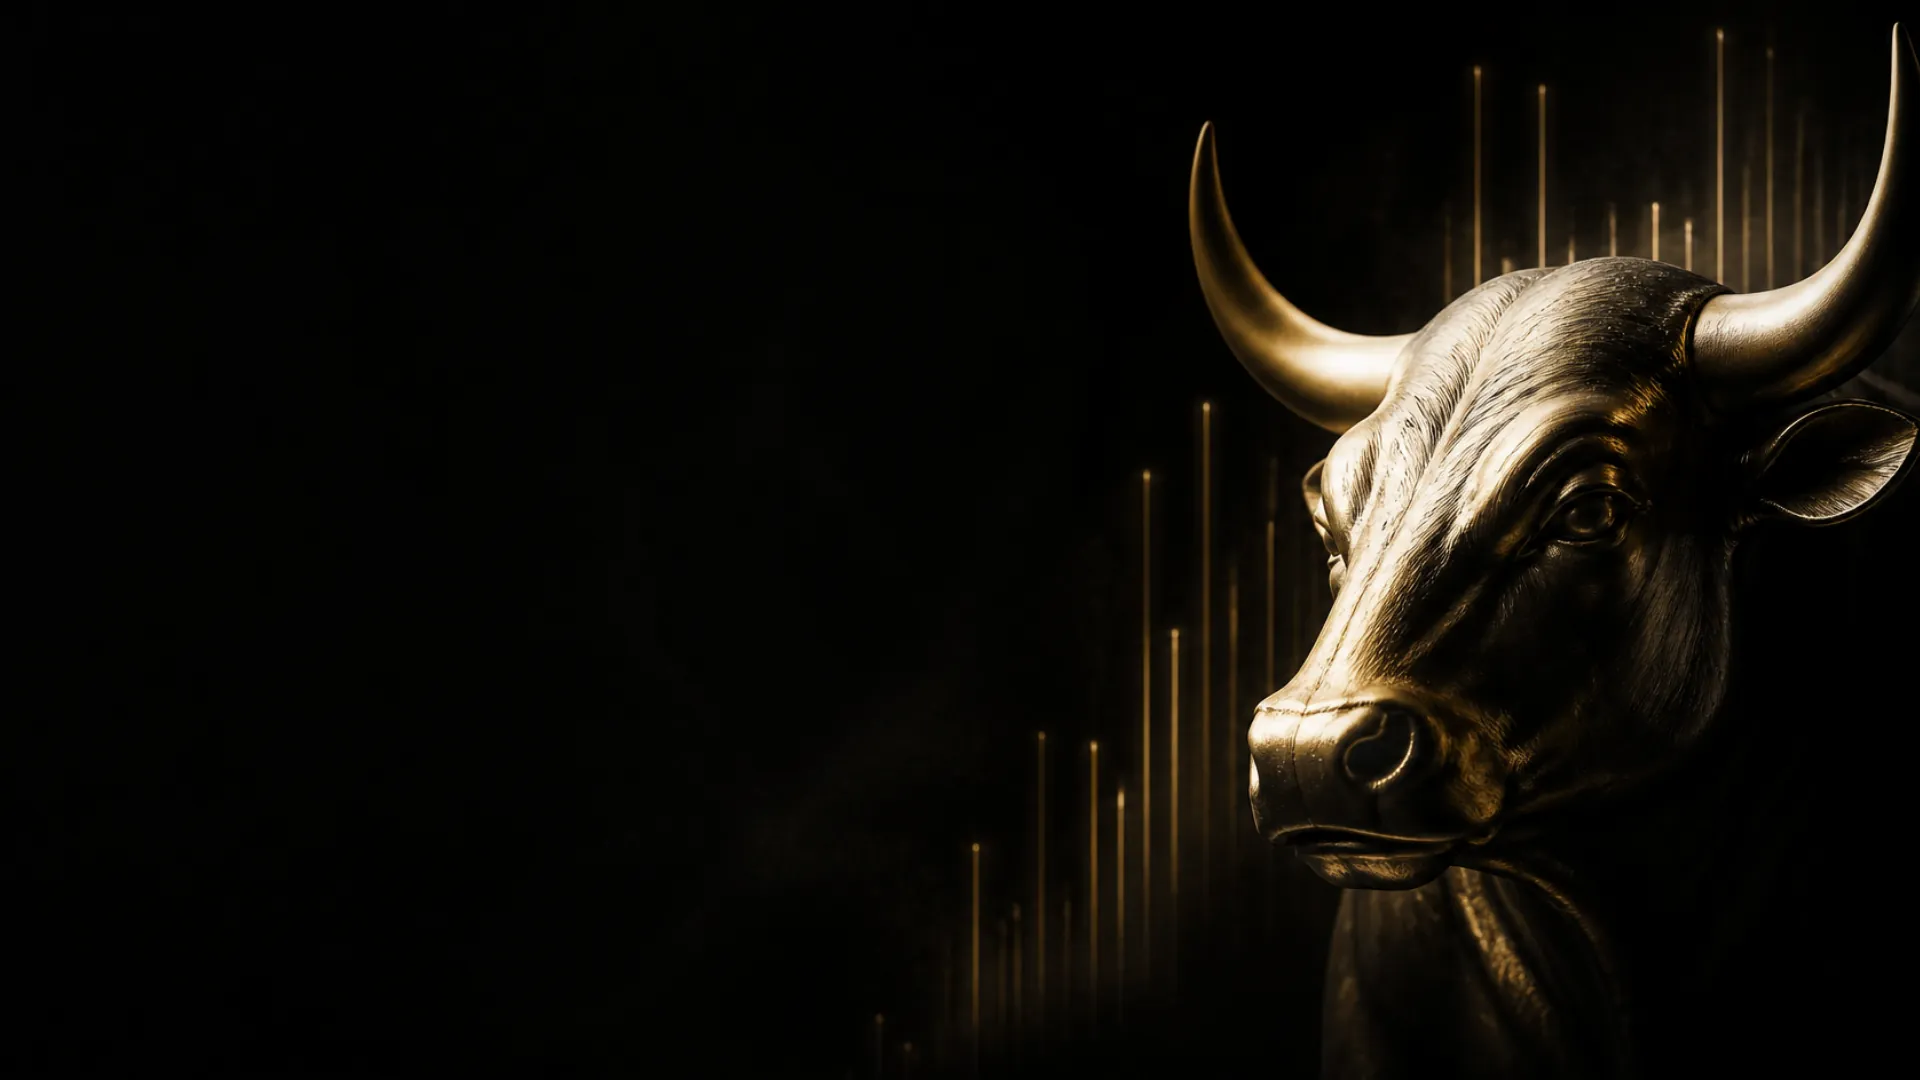
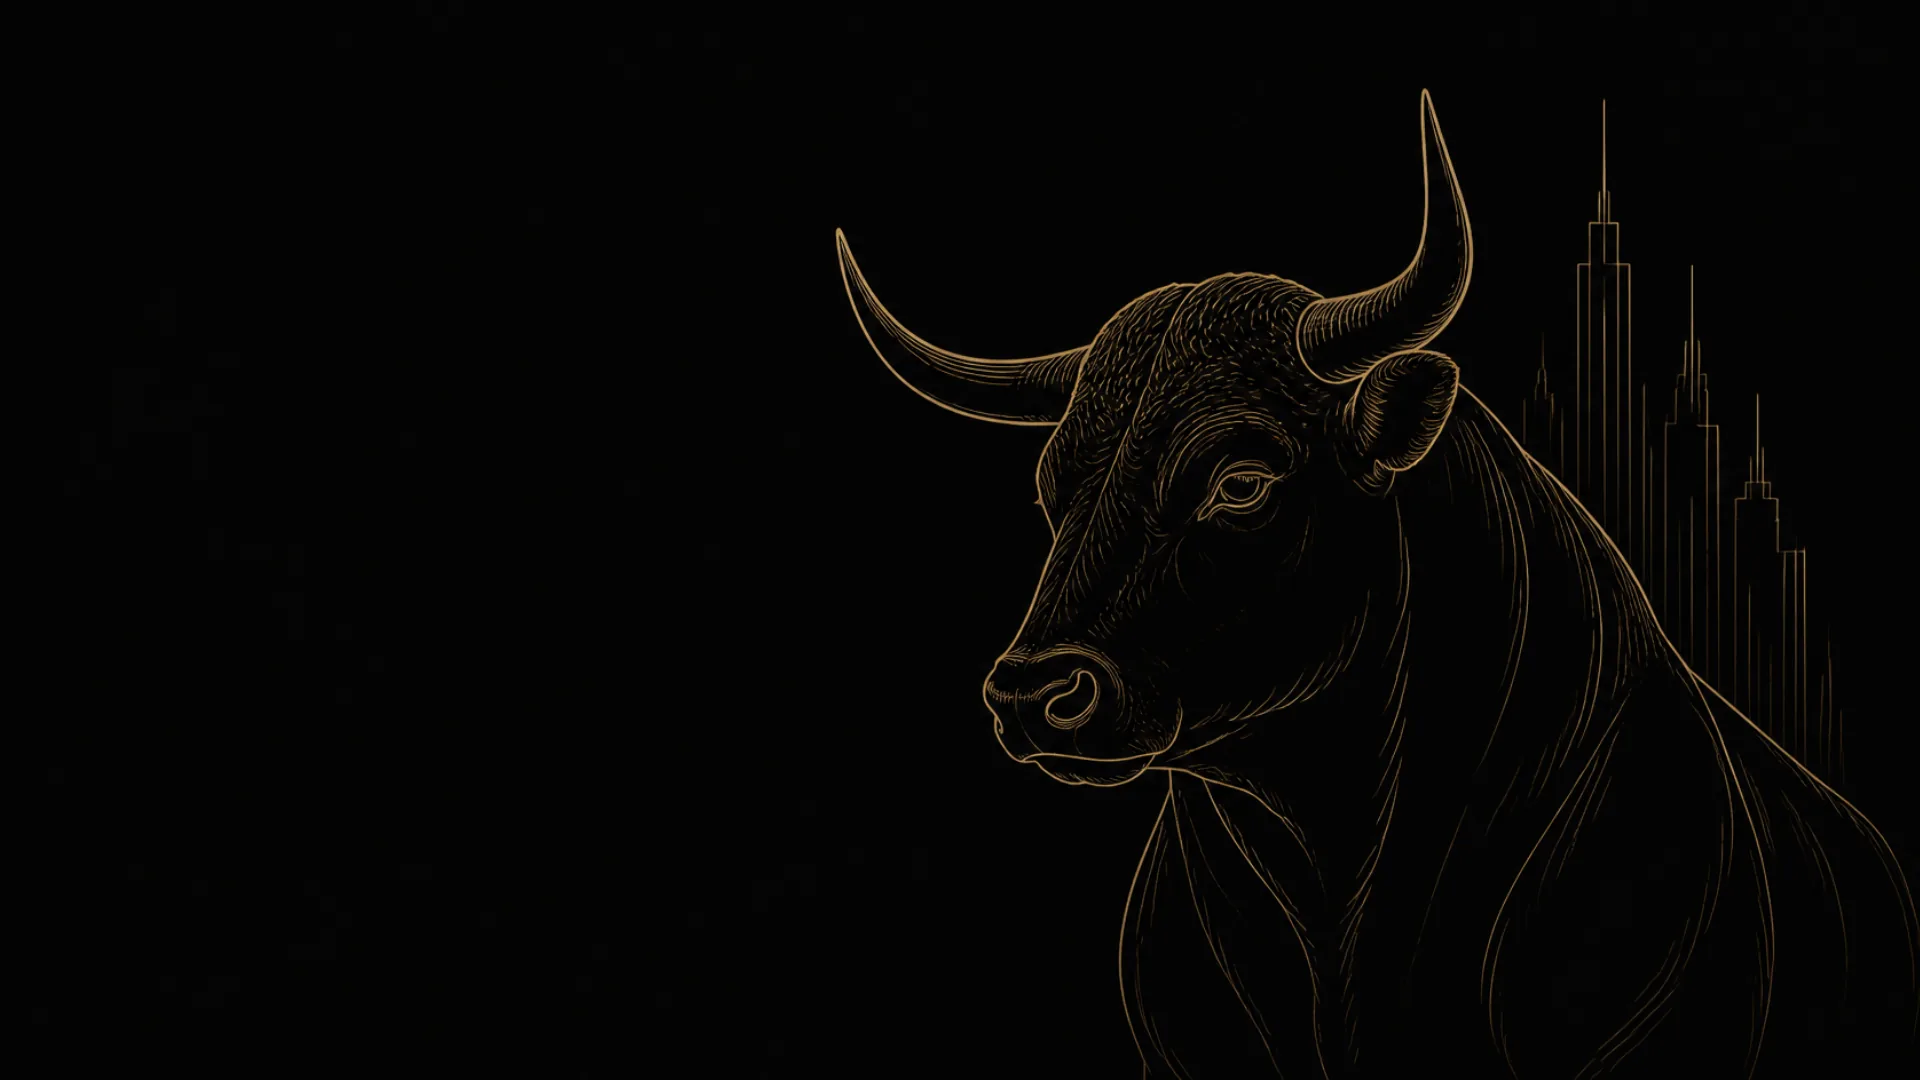
Replace the photoreal bull with a minimalist sketch
The hero and LinkedIn banner now use a fine-line gold sketch of a bull
with a thin skyline. The hero image sits on the right at its natural
proportions, and the rosette and market line are quieter so the
linework reads cleanly.

Changed region(s): [[0.4375, 0.0306, 1.0, 0.9472], [0.9062, 0.7028, 0.9688, 0.7639], [0.9375, 0.6417, 0.9688, 0.6722]]

diff --git a/css/main.css b/css/main.css
@@ -206,13 +206,14 @@ a:hover { color: var(--text); }
 
 /* ---------- Hero ---------- */
 .hero { position: relative; z-index: 2; min-height: calc(100svh - 6.85rem); display: flex; align-items: center; overflow: hidden; padding-block: var(--space-5); }
-.hero-media { position: absolute; inset: 0; z-index: -2; }
-.hero-media img { width: 100%; height: 100%; object-fit: cover; object-position: 72% 40%; }
+/* The sketch bull sits on the right at its natural proportions; the headline keeps the left. */
+.hero-media { position: absolute; inset: 0 0 0 auto; width: min(78%, 1250px); z-index: -2; }
+.hero-media img { width: 100%; height: 100%; object-fit: cover; object-position: 85% 50%; }
 .hero-media::after {
   content: ""; position: absolute; inset: 0;
   background:
-    linear-gradient(90deg, var(--bg) 18%, rgb(11 11 12 / 0.75) 48%, rgb(11 11 12 / 0.15) 75%, rgb(11 11 12 / 0.35)),
-    linear-gradient(0deg, var(--bg) 0%, transparent 30%);
+    linear-gradient(90deg, var(--bg) 0%, rgb(11 11 12 / 0.6) 22%, transparent 45%),
+    linear-gradient(0deg, var(--bg) 0%, transparent 22%);
 }
 .hero .container { position: relative; }
 .hero h1 { font-size: clamp(3.4rem, 1.4rem + 9vw, 10.5rem); line-height: 0.92; letter-spacing: -0.03em; margin-bottom: var(--space-4); }
@@ -224,15 +225,16 @@ a:hover { color: var(--text); }
 .hero-meta .container { display: flex; justify-content: space-between; gap: var(--space-2); flex-wrap: wrap; color: var(--muted); }
 .hero-meta ol { display: flex; gap: var(--space-4); list-style: none; padding: 0; margin: 0; }
 .hero-meta li span { color: var(--accent); margin-right: 0.5rem; }
-.rosette { position: absolute; z-index: -1; right: -8vw; top: 50%; width: min(78vw, 860px); aspect-ratio: 1; translate: 0 -50%; opacity: 0.55; pointer-events: none; }
+.rosette { position: absolute; z-index: -3; right: -8vw; top: 50%; width: min(78vw, 860px); aspect-ratio: 1; translate: 0 -50%; opacity: 0.22; pointer-events: none; }
 .rosette path { fill: none; stroke: var(--accent); stroke-width: 0.6; vector-effect: non-scaling-stroke; opacity: 0.5; }
-.market-line { position: absolute; left: 0; right: 0; bottom: 18%; z-index: -1; width: 100%; height: 26vh; pointer-events: none; opacity: 0.6; }
+.market-line { position: absolute; left: 0; right: 0; bottom: 6%; z-index: -1; width: 100%; height: 18vh; pointer-events: none; opacity: 0.4; }
 .market-line path { fill: none; stroke: var(--accent); stroke-width: 1.2; vector-effect: non-scaling-stroke; }
 .market-line .area { fill: url(#mlGrad); stroke: none; }
 @media (max-width: 820px) {
   .hero { flex-direction: column; align-items: stretch; justify-content: flex-end; padding-top: 40vh; }
-  .hero-media img { object-position: 70% 20%; }
-  .hero-media::after { background: linear-gradient(0deg, var(--bg) 38%, rgb(11 11 12 / 0.55) 70%, rgb(11 11 12 / 0.2)); }
+  .hero-media { width: 100%; height: 62vh; }
+  .hero-media img { object-position: 78% 50%; }
+  .hero-media::after { background: linear-gradient(0deg, var(--bg) 0%, rgb(11 11 12 / 0.3) 40%, transparent 70%); }
   .hero-meta { position: static; margin-top: var(--space-4); }
   .hero-meta ol { gap: var(--space-2); flex-wrap: wrap; }
   .rosette { width: 120vw; right: -40vw; top: 26%; opacity: 0.3; }
